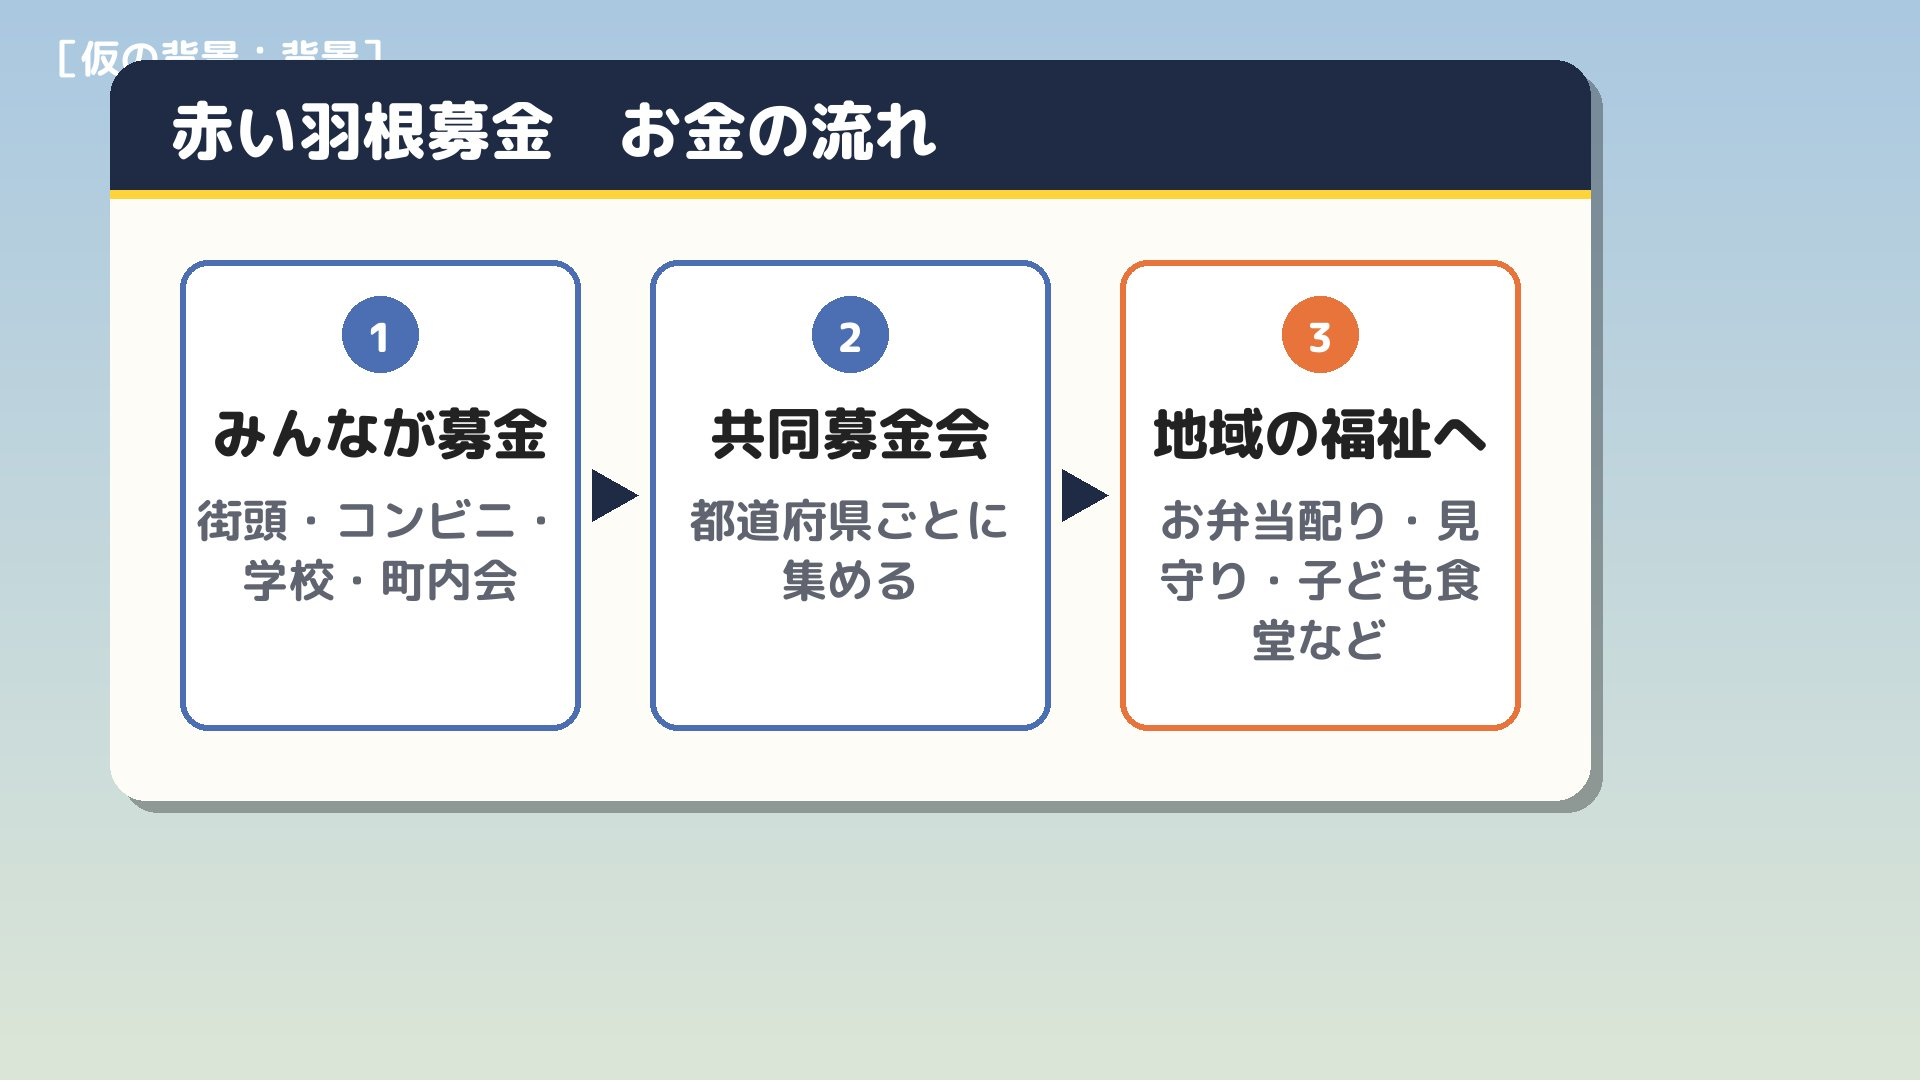
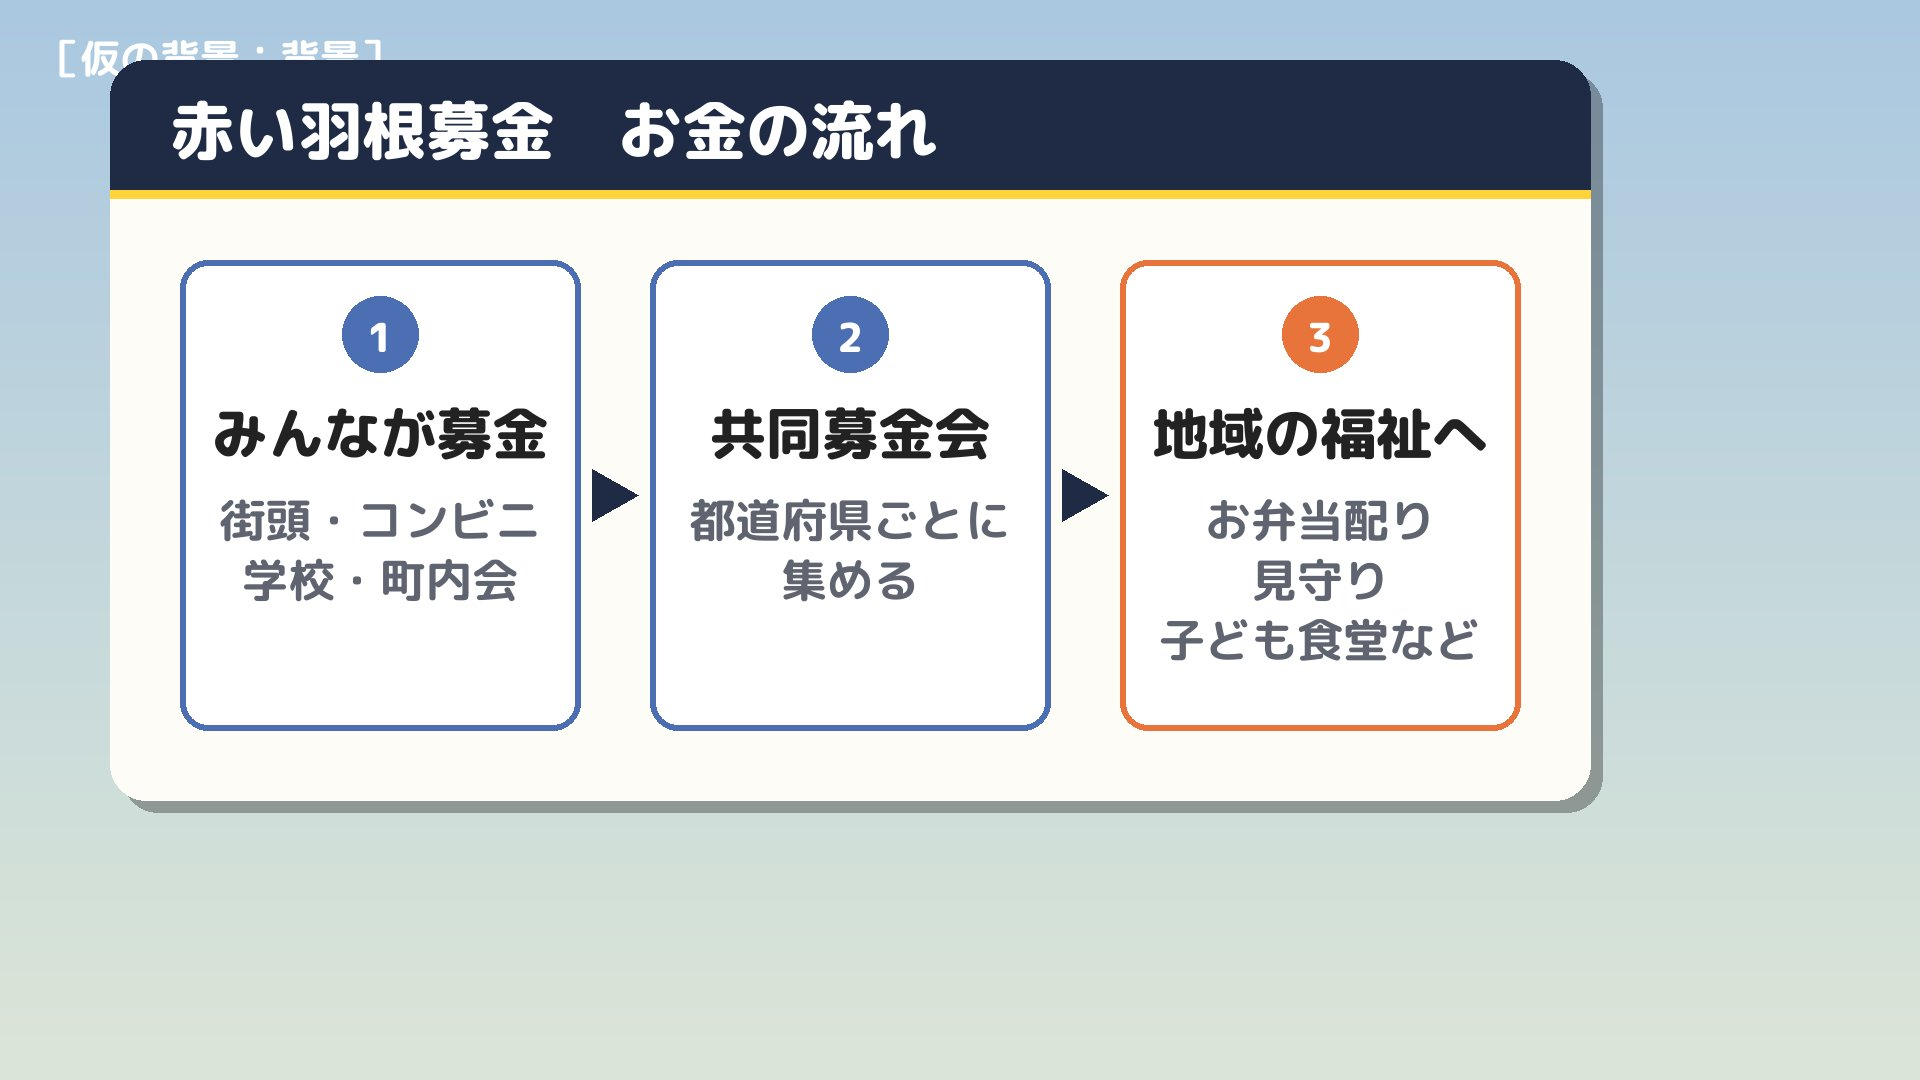
12本目：「行方が分からなくなっている」・北海道で、字幕の改行を単語の途中で切らない、問いかけを使わない／11・12本目：最後をチャンネル登録の画面に
Claude-Session: https://claude.ai/code/session_011g9CsrfFD5YswfNSvNDW39

Changed region(s): [[0.5938, 0.4583, 0.7812, 0.6111], [0.0938, 0.4583, 0.2812, 0.5194]]

diff --git a/catmeme/cuts_12_akaihane.py b/catmeme/cuts_12_akaihane.py
@@ -9,6 +9,7 @@ python3 catmeme/cuts_12_akaihane.py 0:10     → 先頭10カットだけ
 - 怒りの矛先は「消えた善意」「1人に任せきりだった仕組み」「止められなかった役員・監査」。募金した人・ボランティア・福祉の現場は被害者側
 - 「募金するな」とは言わない。「どう寄付先を選ぶか」で締める
 - わざと知らないふりをする簡単なボケは入れない（10/11 ユーザー指定）→ 原稿の「羽根、品切れ？」は外した
+- 「これ、許せますか？」はこの動画では使わない（10/12 ユーザー指定）
 """
 import os
 import sys
@@ -69,11 +70,15 @@ def ask(**kw):
     return dict(card=None, layers=[pt("yuruseru")], dur=kw.pop("dur", 2.8), se=kw.pop("se", "doon_heavy"), **kw)
 
 
+def SUBSCRIBE():
+    return dict(bg=None, card=os.path.join(HERE, "parts", "common", "subscribe.png"), dur=3.4, se="chirin",
+                cats=[{"a": "wave_waving_cat", "x": 1560, "h": 520, "bottom": 1040, "float": True}])
+
+
 def cuts_all():
     return [
         # ---- 0. 注意書き ----
         dict(card=None, layers=[pt("e00_notice")], dur=5.0, se={"f": "chime_announce", "len": 3.0, "gain": -2}),
-        ask(),   # 本編の一番最初にも問いかけ（10/12 ユーザー指定）
         # ---- 1. つかみ ----
         one(CONV, "毎年10月1日から始まる\n「赤い羽根共同募金」", se="doon_movie", sting={"file": KAMI, "len": 4.0, "gain": -14}),
         one(PRESS, "大臣たちが　胸に赤い羽根をつけて\nテレビに映る\nおなじみの季節", se="page_turn_01", bgm={"file": PURPLE, "gain": -4}),
@@ -81,7 +86,7 @@ def cuts_all():
         nn("え、なんで？", PRESS, se="question_mark_pop_confused_huh"),
         one(PRESS, "政府は今年\n閣僚らの赤い羽根の着用を\n控えている（官房長官の説明）", se="pi"),
         nn("政府ごと\n“つけない”って……\n何があったの", PRESS, se="question_hatena_maou"),
-        close(OFFICE, "@react", "ニュース猫", "集めた募金など\n約2億5,000万円が\n使い道の分からないお金に", se=["explosion_dokaan"], sting=STING),
+        close(OFFICE, "@react", "ニュース猫", "北海道で　集めた募金など\n約2億5,000万円の行方が\n分からなくなっている", se=["explosion_dokaan"], sting=STING),
         close(OFFICE, "@react", "ニュース猫", "にっ……\n2億5,000万円！？", se=["game_pokemon_super_effective_hit_big_damage"]),
         don("毎年　コンビニの\nお釣りを\n入れてたのに……", se="tear_drop"),
         dict(bg=bg(BOARD), card=pt("e01_title"), dur=3.4, se="jan",
@@ -89,32 +94,31 @@ def cuts_all():
         # ---- 2. 赤い羽根って？ ----
         chap("そもそも赤い羽根って？", se="quiz_question_01", bgm={"file": COCOA, "gain": -2, "fade": 0.6}),
         ex(CONV, "赤い羽根共同募金 ＝ 都道府県ごとの\n「共同募金会」が集めて\nその地域の福祉活動に配る募金", dur=4.0, se="pinpon_notice"),
-        dia("e02_flow", "集めたお金は　その地域のお年寄りへのお弁当配り・見守り・子ども食堂などへ", right=S, dur=4.8, se="card_flip"),
+        dia("e02_flow", "集めたお金は　その地域の\nお年寄りへのお弁当配り・見守り・子ども食堂などへ", right=S, dur=4.8, se="card_flip"),
         ss("北海道で集めたお金は\n北海道の福祉に使われる\n“地元のための募金”なんよ", se="pikon"),
         two(CONV, "北海道では　年末の\n「歳末たすけあい」と合わせて\n毎年6億〜7億円が集まっていた", se="price_display"),
         nn("そのうち2.5億円が\n……消えた？", se="shock_piano"),
         ss("“使い道が分からない”\nまだ“どこに行ったか”も\n全部は分かってない", se="kon"),
         # ---- 3. 何が起きたのか ----
         chap("何が起きたのか", se="doon_heavy", bgm={"file": AM223, "gain": -2, "fade": 0.6}),
-        dia("e03_timeline", "2010年ごろから　事務局の男性が　実質1人で会計を担当していたとされる", right=S, dur=4.6, se="xylophone_transition"),
+        dia("e03_timeline", "2010年ごろから　事務局の男性が\n実質1人で会計を担当していたとされる", right=S, dur=4.6, se="xylophone_transition"),
         dia("e03_timeline", "2020年ごろから　無断で現金を引き出し始めたとみられる", right=S, dur=4.4, se="card_flip"),
-        dia("e03_timeline", "2026年2月　札幌国税局が　所得税法違反の疑いで査察 → ここで発覚", right=S, dur=4.6, se="pc_warning"),
-        dia("e03_timeline", "7月に事務局長を懲戒解雇　9月にさらに約7,000万円の不明 → 総額 約2億5,000万円", right=S, dur=5.0,
+        dia("e03_timeline", "2026年2月　札幌国税局が\n所得税法違反の疑いで査察 → ここで発覚", right=S, dur=4.6, se="pc_warning"),
+        dia("e03_timeline", "7月に事務局長を懲戒解雇　9月にさらに約7,000万円の不明\n→ 総額 約2億5,000万円", right=S, dur=5.0,
             se="card_place", sting=STING),
         close(ROOM, "@react", "ニュース猫", "国税が来て　初めてバレたの！？\n内部じゃ誰も\n気づいてないの！？", se=["explosion_chudoon"]),
         ss("そう\nきっかけは税務署側", se="hyoshigi_01"),
         two(PRESS, "共同募金会は\n「元事務局長が　繰り返し着服していた\n疑いがある」として　刑事告訴を検討", se="page_turn_01"),
         two(PRESS, "元事務局長とは\n連絡が取れていない\nとされる", se="pi"),
         nn("しかも\n連絡つかないの……", PRESS, se="deflate_hyororo"),
-        ask(),
         # ---- 4. なぜバレなかったのか ----
         chap("なぜ何年もバレなかったのか", se="doon_heavy"),
         dia("e04_holes", "通帳も印鑑も　1人で管理していた", right=S, dur=4.2, se="card_flip"),
-        dia("e04_holes", "足りなくなった分は　年度末に金融機関から借りて穴埋め　監査は決算の日の残高だけ", right=S, dur=5.0,
+        dia("e04_holes", "足りなくなった分は　年度末に金融機関から借りて穴埋め\n監査は決算の日の残高だけ", right=S, dur=5.0,
             se="card_place"),
         nn("夏休みの宿題を\n最終日だけ友だちに借りて\n提出してたみたいな……", se="silly"),
         ss("スケールが\n2.5億円の宿題な", se="tsukkomi_bishi"),
-        dia("e04_holes", "理事会が承認していない議事録で　約1億9,000万円を借りていた疑いも", right=S, dur=4.6, se="pc_warning"),
+        dia("e04_holes", "理事会が承認していない議事録で\n約1億9,000万円を借りていた疑いも", right=S, dur=4.6, se="pc_warning"),
         close(ROOM, "@react", "ニュース猫", "議事録まで……", se=["explosion_chudoon"]),
         ss("外部の監査も何回も入ってたのに\n止められなかった\n役員も　監事も", se="kon"),
         two(MEET, "全国の共同募金会を緊急点検\nほかの都府県は「お金を出す人」と\n「OKを出す人」を分けていた", se="page_turn_02"),
@@ -128,11 +132,10 @@ def cuts_all():
         gen("見守りの車の\nガソリン代\nどうしよう……", se="deflate_hyororo"),
         nn("いちばん困ってるの\n現場の人たち\nじゃん……", OFFICE, se="shock_piano"),
         two(CONV, "10月1日　今年の募金がスタート\n出発式は　ボランティアへの\n謝罪から始まった", se="page_turn_01"),
-        dia("e05_genba", "札幌の街頭ボランティアは例年の8割減　町内会や企業も協力の見送りが続出", CONV, right=S, dur=5.0, se="card_flip"),
+        dia("e05_genba", "札幌の街頭ボランティアは例年の8割減\n町内会や企業も協力の見送りが続出", CONV, right=S, dur=5.0, se="card_flip"),
         dia("e05_genba", "置いてくれるお店が見つからず　送れない募金箱も", CONV, right=S, dur=4.2, se="card_place"),
         don("募金したくても\nどこに入れたらいいのか……", se="tear_drop"),
         close(CONV, "@calm", "博識な猫", "1人の“疑い”で\n何千人の善意と\n何千人の支援が止まってる", red=False, se=["shock_piano"]),
-        ask(),
         # ---- 6. 全国への影響 ----
         chap("北海道だけの話じゃない", se="doon_heavy", bgm={"file": PURPLE, "gain": -4, "fade": 0.6}),
         two(PRESS, "政府は今年\n閣僚らの赤い羽根の着用を控えた\n（厚生労働省から各府省に依頼）", se="pi"),
@@ -149,8 +152,8 @@ def cuts_all():
         gen("でも　募金が減ったら\n困るのは……", se="tear_drop"),
         nn("……現場、か", OFFICE, se="shock_piano"),
         ss("“募金しない”も“募金する”も\nどっちも正解\n大事なのは“どこに・どう使われるか”\nを見ること", dur=4.0, se="pikon"),
-        dia("e07_choose", "決算や使い道を公開しているか　お金を扱う人が1人じゃないか", right=S, dur=4.6, se="pinpoon_correct"),
-        dia("e07_choose", "支援したい団体に直接寄付したり　使い道を指定したりする手もある", right=S, dur=4.6, se="pinpoon_correct"),
+        dia("e07_choose", "決算や使い道を公開しているか\nお金を扱う人が1人じゃないか", right=S, dur=4.6, se="pinpoon_correct"),
+        dia("e07_choose", "支援したい団体に直接寄付したり\n使い道を指定したりする手もある", right=S, dur=4.6, se="pinpoon_correct"),
         nn("“なんとなく募金”から\n“選んで寄付”の\n時代か", se="idea_newtype_01"),
         # ---- 8. ネットの声 ----
         chap("ネットの声", se="whoosh_shu", dur=1.4, bgm={"file": AM223, "gain": -2, "fade": 0.6}),
@@ -174,7 +177,7 @@ def cuts_all():
         ss("それは　これから\n調べで明らかになる", se="hyoshigi_01"),
         dict(bg=bg(BOARD), card=pt("e10_ending"), dur=3.4, se="chirin",
              cats=[{"a": "wave_waving_cat", "x": 300, "h": 420, "bottom": 1040, "float": True}]),
-        dict(chap("→ 10本目「ハッカーに煽られたクラウド」\n11本目「2,000万円の車を盗んだ疑いでも不起訴」もどうぞ", dur=3.0), chapter_size=66),
+        SUBSCRIBE(),   # 最後はチャンネル登録の画面（10/12 ユーザー指定。「→ ○本目もどうぞ」の画面は使わない）
     ]
 
 

diff --git a/catmeme/make_parts_common.py b/catmeme/make_parts_common.py
@@ -1,0 +1,40 @@
+"""全動画共通の画面部品を書き出す。
+
+python3 catmeme/make_parts_common.py → catmeme/parts/common/*.png
+- subscribe.png … 動画の最後の「チャンネル登録よろしく！」の画面（10/12 ユーザー指定。「→ ○本目もどうぞ」の画面の代わり）
+"""
+import os
+
+from PIL import Image, ImageDraw
+
+import parts as P
+
+HERE = os.path.dirname(os.path.abspath(__file__))
+OUT = os.path.join(HERE, "parts", "common")
+RED = (230, 30, 30)
+
+
+def subscribe():
+    img = Image.new("RGBA", (P.W, P.H), (24, 24, 30, 255))
+    d = ImageDraw.Draw(img)
+    # 斜めのしま（にぎやかし）
+    for x in range(-P.H, P.W, 120):
+        d.polygon([(x, P.H), (x + 60, P.H), (x + 60 + P.H, 0), (x + P.H, 0)], fill=(32, 32, 40, 255))
+    cx = 760
+    big = P.big_text("チャンネル登録", (90, 150, 1430, 420), max_size=190, max_lines=1, fill=P.WHITE)
+    img.alpha_composite(big)
+    # 赤いボタン
+    bx0, by0, bx1, by1 = cx - 430, 470, cx + 430, 690
+    d.rounded_rectangle((bx0 + 10, by0 + 14, bx1 + 10, by1 + 14), 40, fill=(90, 0, 0, 255))
+    d.rounded_rectangle((bx0, by0, bx1, by1), 40, fill=RED + (255,))
+    f = P.font("black", 130)
+    d.text((cx, (by0 + by1) / 2 - 8), "登録する", font=f, fill=P.WHITE, anchor="mm")
+    yoro = P.big_text("よろしく！", (90, 740, 1430, 1000), max_size=170, max_lines=1, fill=(255, 225, 0))
+    img.alpha_composite(yoro)
+    return img
+
+
+if __name__ == "__main__":
+    os.makedirs(OUT, exist_ok=True)
+    subscribe().save(os.path.join(OUT, "subscribe.png"))
+    print("->", OUT)

diff --git a/catmeme/make_parts_12_akaihane.py b/catmeme/make_parts_12_akaihane.py
@@ -21,9 +21,9 @@ ITEMS = {
                             opaque=True, size=54),
     "e01_title": P.message(["赤い羽根募金、2.5億円が消えた", "善意はどこへ行った？"], sub="2026年　北海道共同募金会の使途不明金", size=96),
     "e02_flow": P.flow("赤い羽根募金　お金の流れ", hsize=56, ssize=46, steps=[
-        ("みんなが募金", "街頭・コンビニ・学校・町内会"),
-        ("共同募金会", "都道府県ごとに集める"),
-        ("地域の福祉へ", "お弁当配り・見守り・子ども食堂など"),
+        ("みんなが募金", "街頭・コンビニ\n学校・町内会"),
+        ("共同募金会", "都道府県ごとに\n集める"),
+        ("地域の福祉へ", "お弁当配り\n見守り\n子ども食堂など"),
     ]),
     "e03_timeline": table3("何が起きたのか（報道より）", ("いつ", "何があった", "ポイント"), [
         ("2010年ごろ", "事務局の男性が　実質1人で会計を担当", "とされる"),

diff --git a/catmeme/cuts_11_fukiso.py b/catmeme/cuts_11_fukiso.py
@@ -190,7 +190,8 @@ def cuts_all():
         ask(card="nattoku_last", dur=3.2, se="doon_heavy"),
         dict(bg=bg(BOARD), card=pt("e11_ending"), dur=3.0, se="chirin",
              cats=[{"a": "wave_waving_cat", "x": 300, "h": 420, "bottom": 1040, "float": True}]),
-        dict(chap("→ 4本目「個人情報、盗まれすぎ問題」\n10本目「ハッカーに煽られたクラウド」もどうぞ", dur=3.0), chapter_size=70),
+        dict(bg=None, card=os.path.join(HERE, "parts", "common", "subscribe.png"), dur=3.4, se="chirin",
+             cats=[{"a": "wave_waving_cat", "x": 1560, "h": 520, "bottom": 1040, "float": True}]),   # 最後はチャンネル登録（10/12）
     ]
 
 

diff --git a/catmeme/README.md b/catmeme/README.md
@@ -10,7 +10,13 @@
 ## 冒頭の注意書き（全動画共通・10/12 ユーザー指定）
 - 注意書きテロップの**一番最後に「今日の一言」を1行**足す。指定があればその文、なければ日常のゆるい一言を毎回考える
   - 例：「※編集中お腹が極度に減っています」「※今日は猫カフェはしごしました」「※今日はクレーンゲームで1万円かけてハイチュウを取りました」
-- 章の終わりに問いかけ（「これ、納得できますか？」など）がある動画は、**注意書きの直後＝本編の一番最初にも**同じ問いかけを出す
+- 章の終わりに問いかけ（「これ、納得できますか？」など）がある動画は、**注意書きの直後＝本編の一番最初にも**同じ問いかけを出す（問いかけを使うかは動画ごとに指定。12本目は使わない）
+
+## 最後の画面（全動画共通・10/12 ユーザー指定）
+- 「→ ○本目もどうぞ」の画面は使わない。代わりに **「チャンネル登録よろしく！」の画面**（`parts/common/subscribe.png`・`make_parts_common.py`）で終わる
+
+## 字幕の改行（全動画共通・10/12 ユーザー指定）
+- 単語の途中で改行しない（「子ども食堂」「総額 約2億5,000万円」などが2行に分かれないように）。長い字幕は自分で `\n` を入れて、区切りのいい所で改行する
 
 ## 素材のルール
 - 猫ミーム素材（`assets/`）は、動画をまたいでも、1本の中でも使い回してよい（ショートの「使い回し禁止」はここでは適用しない）
